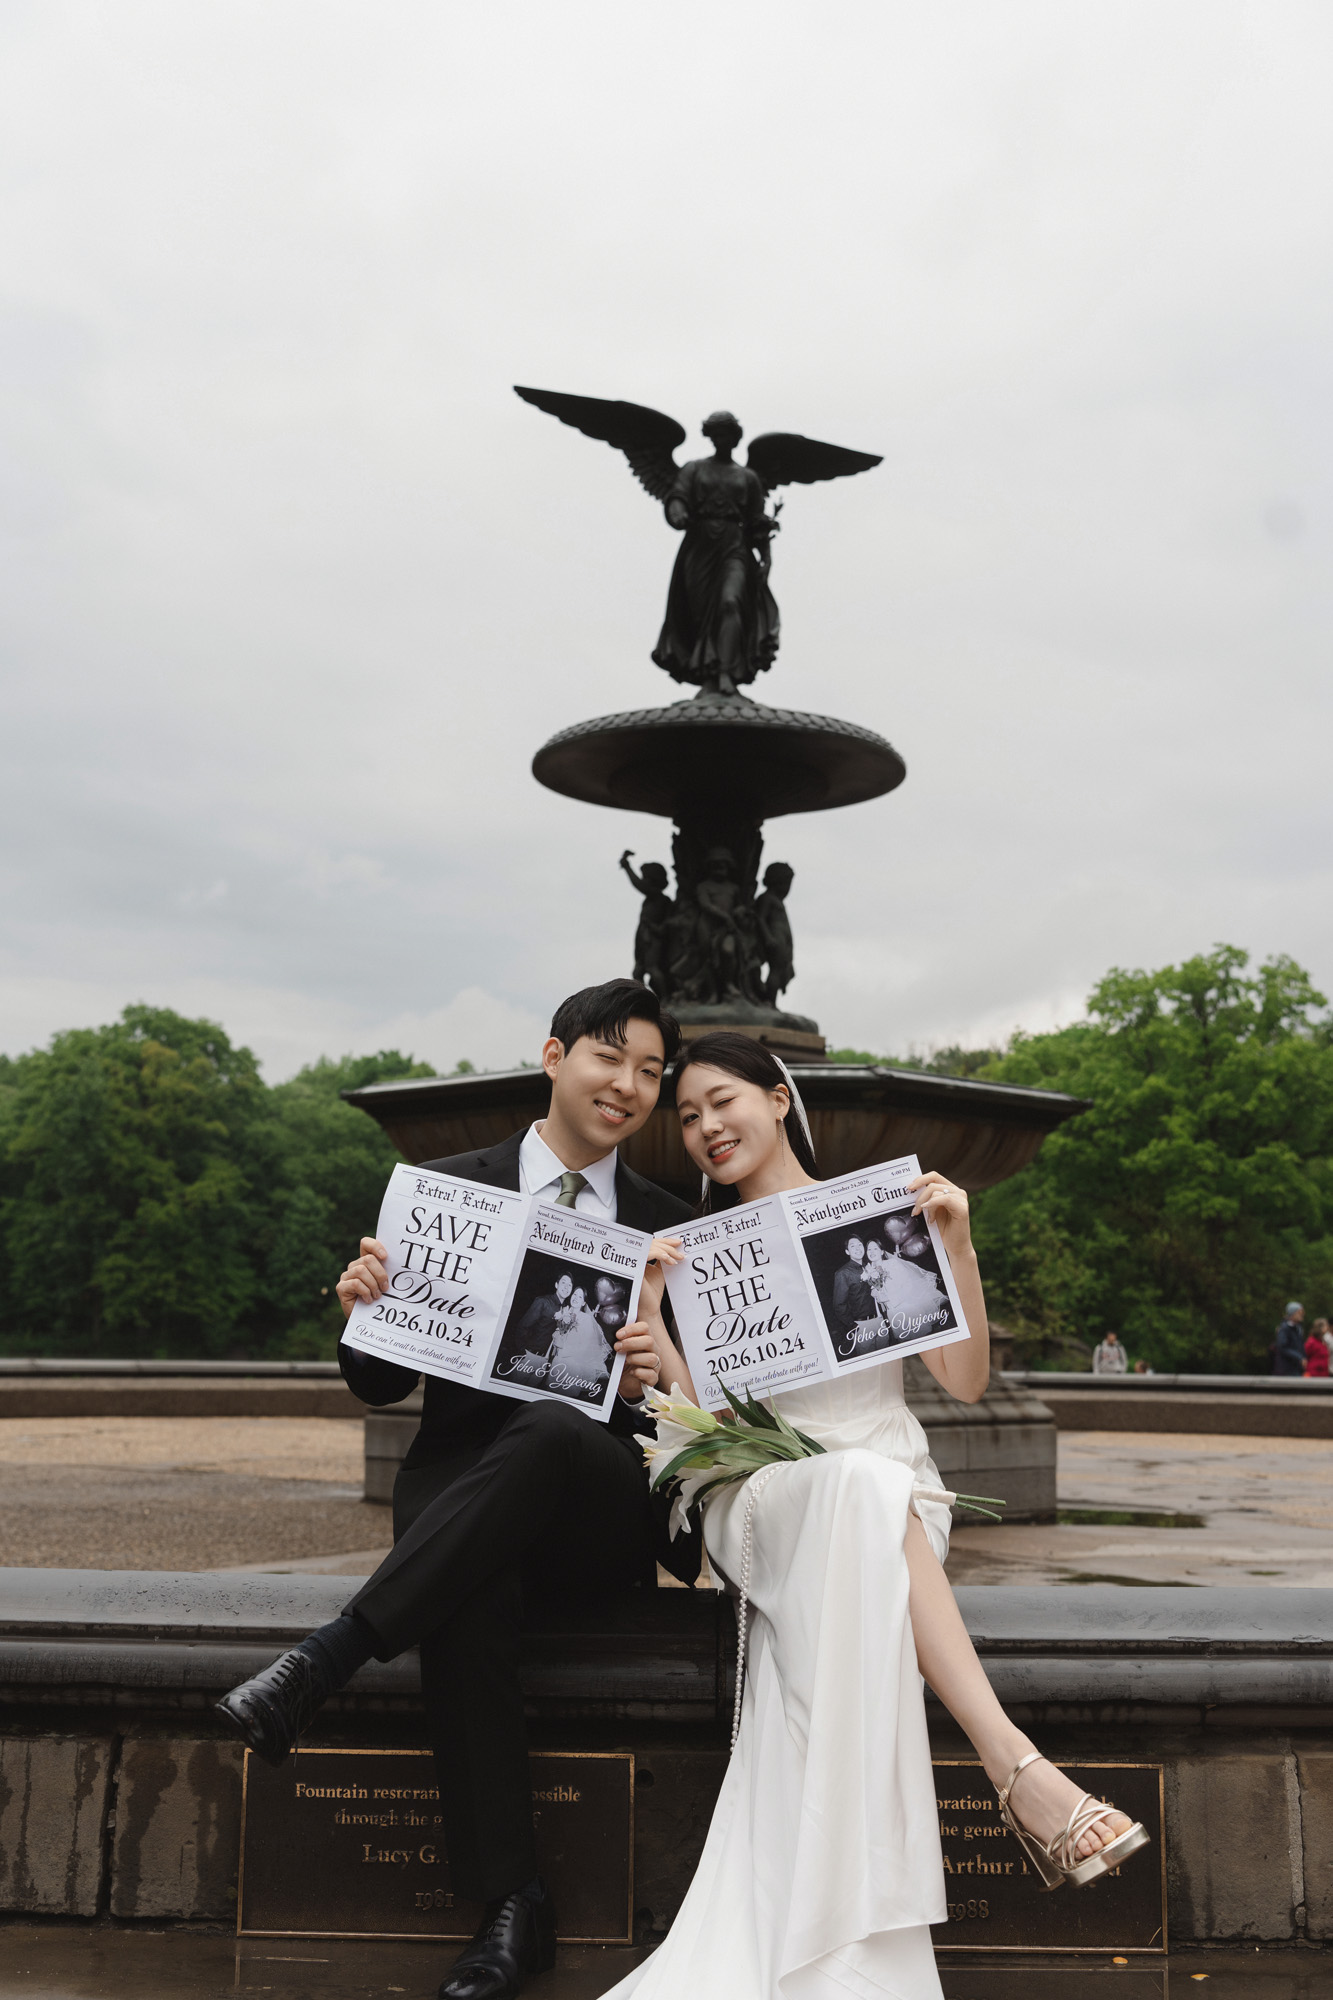
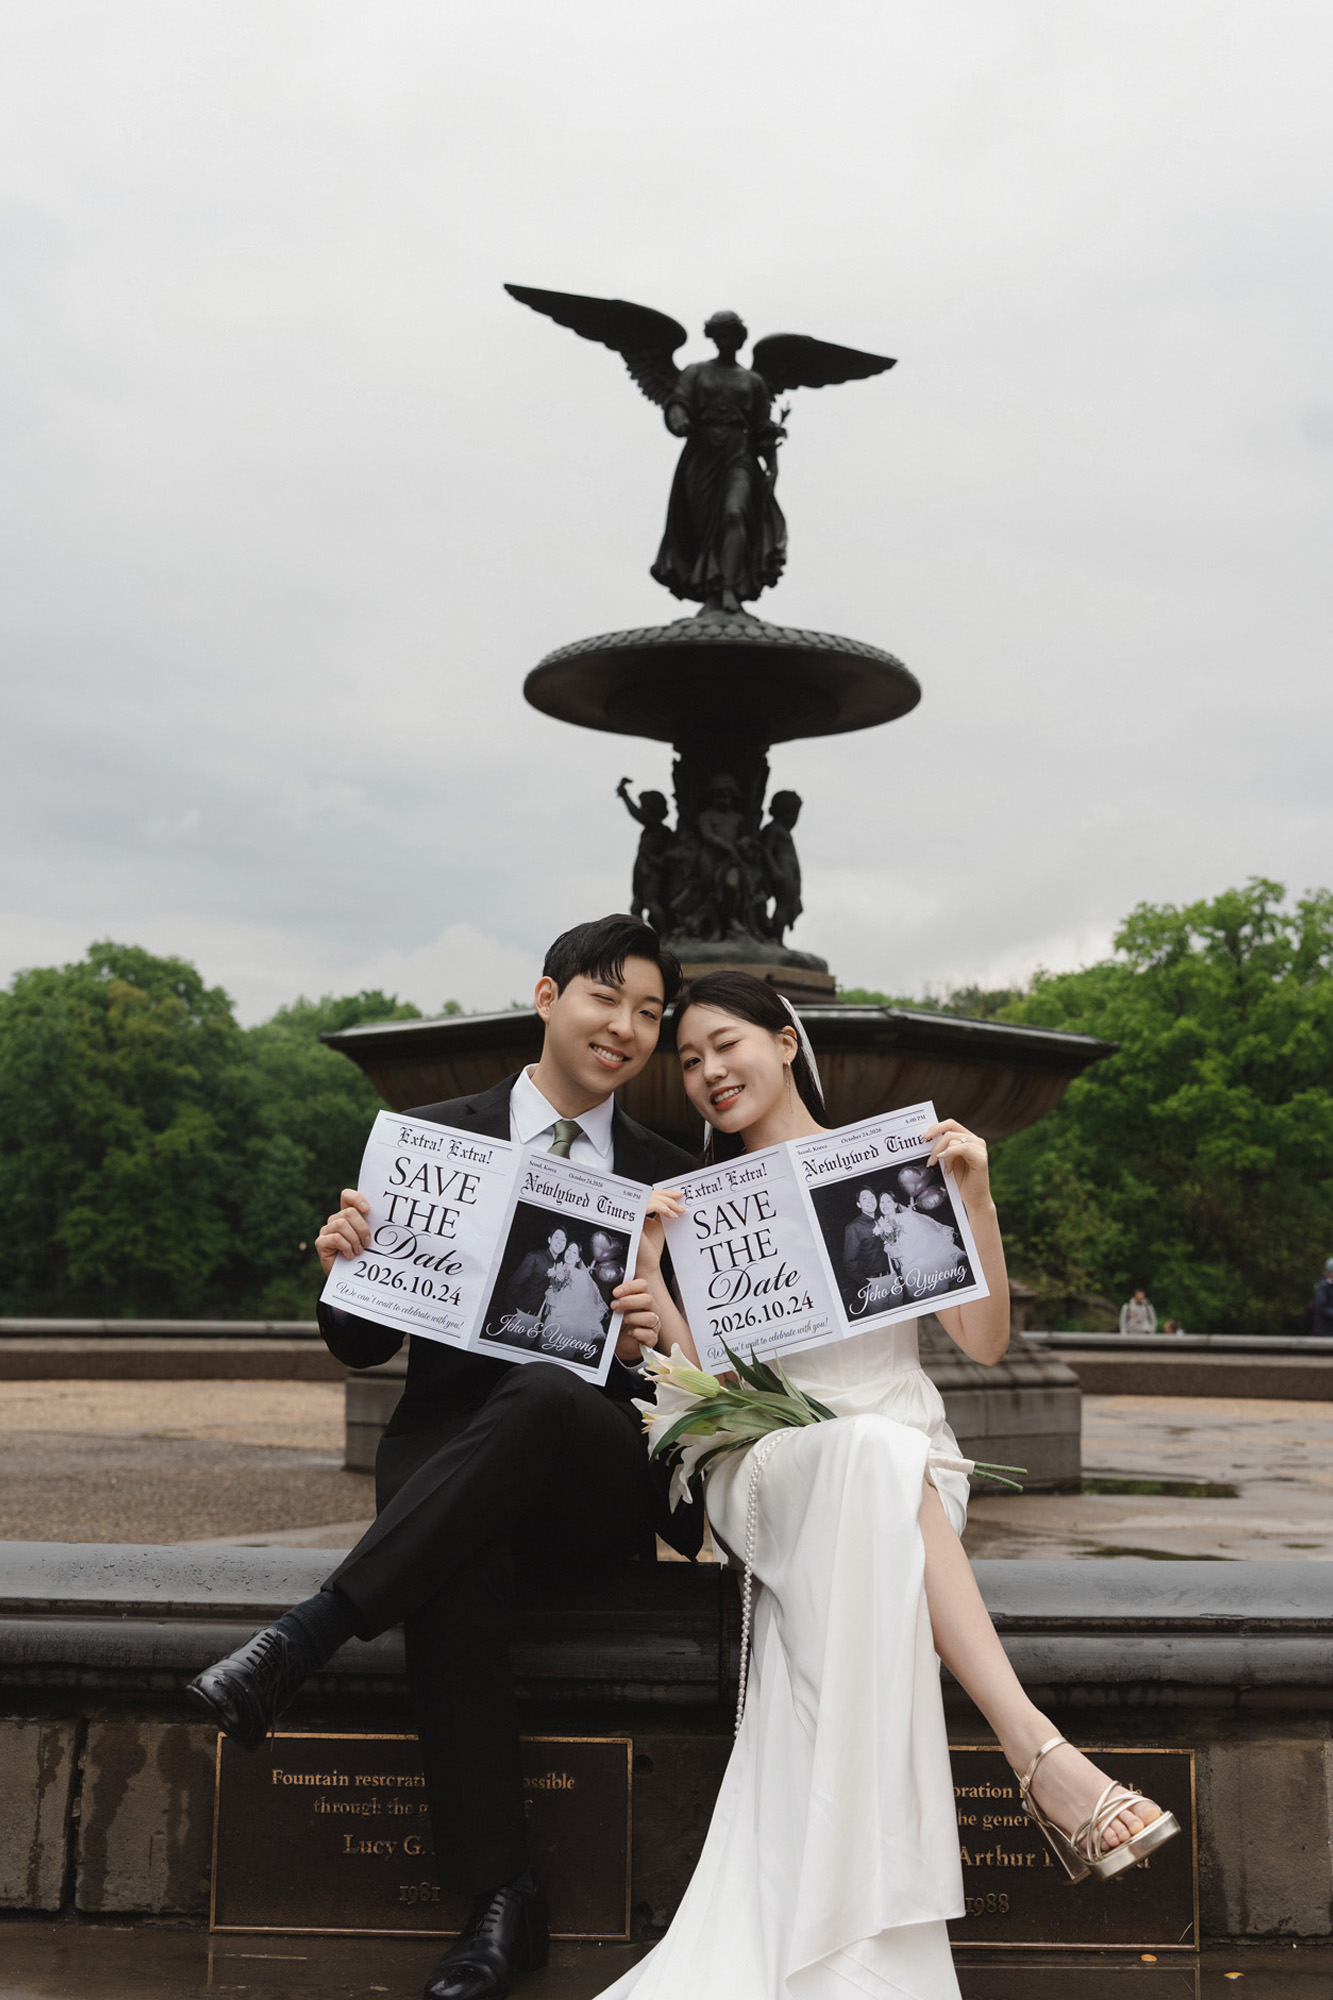
Replace gallery photo 4 with updated color-corrected file.

diff --git a/index.html b/index.html
@@ -2889,7 +2889,7 @@
       'quality%20photo/1.jpg',
       'quality%20photo/2.jpg',
       'quality%20photo/3.jpg',
-      'quality%20photo/4.jpg',
+      'quality%20photo/4.jpg?v=2',
       'quality%20photo/5.jpg',
       'quality%20photo/6.jpg',
       'quality%20photo/7.jpg',
